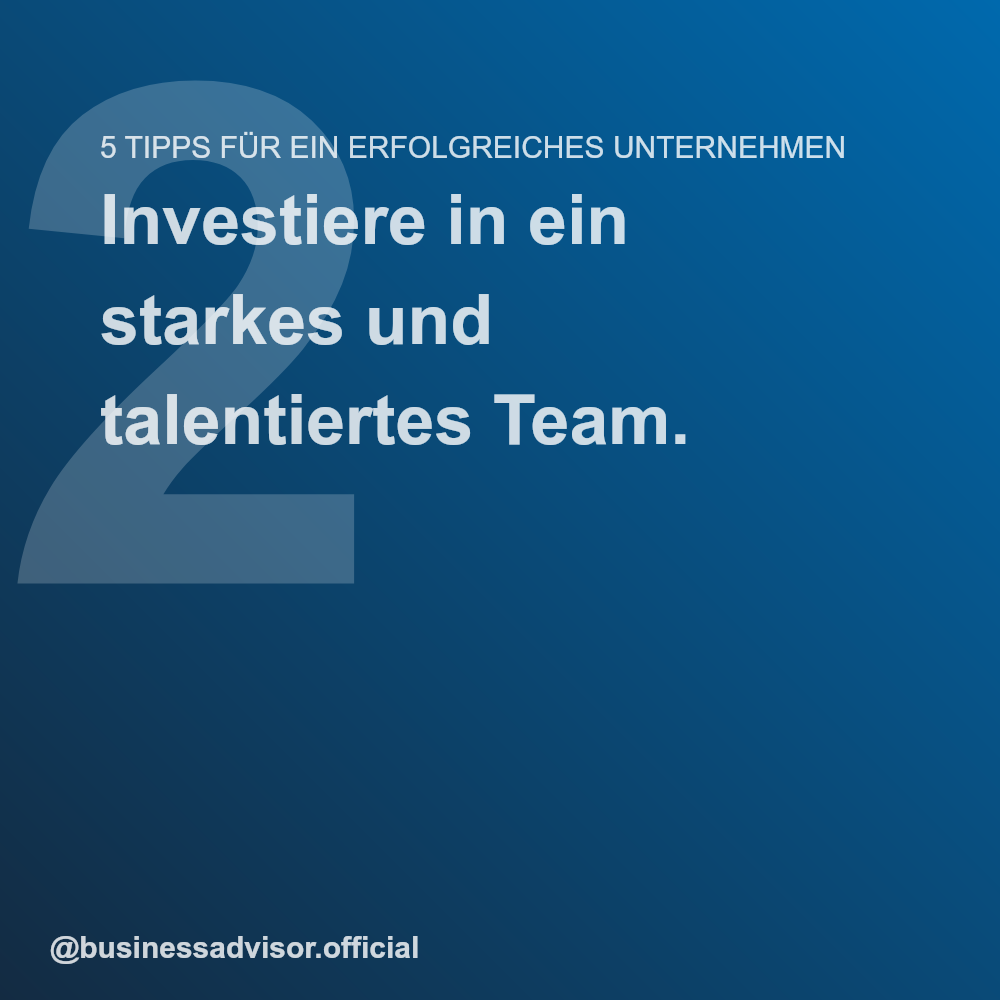
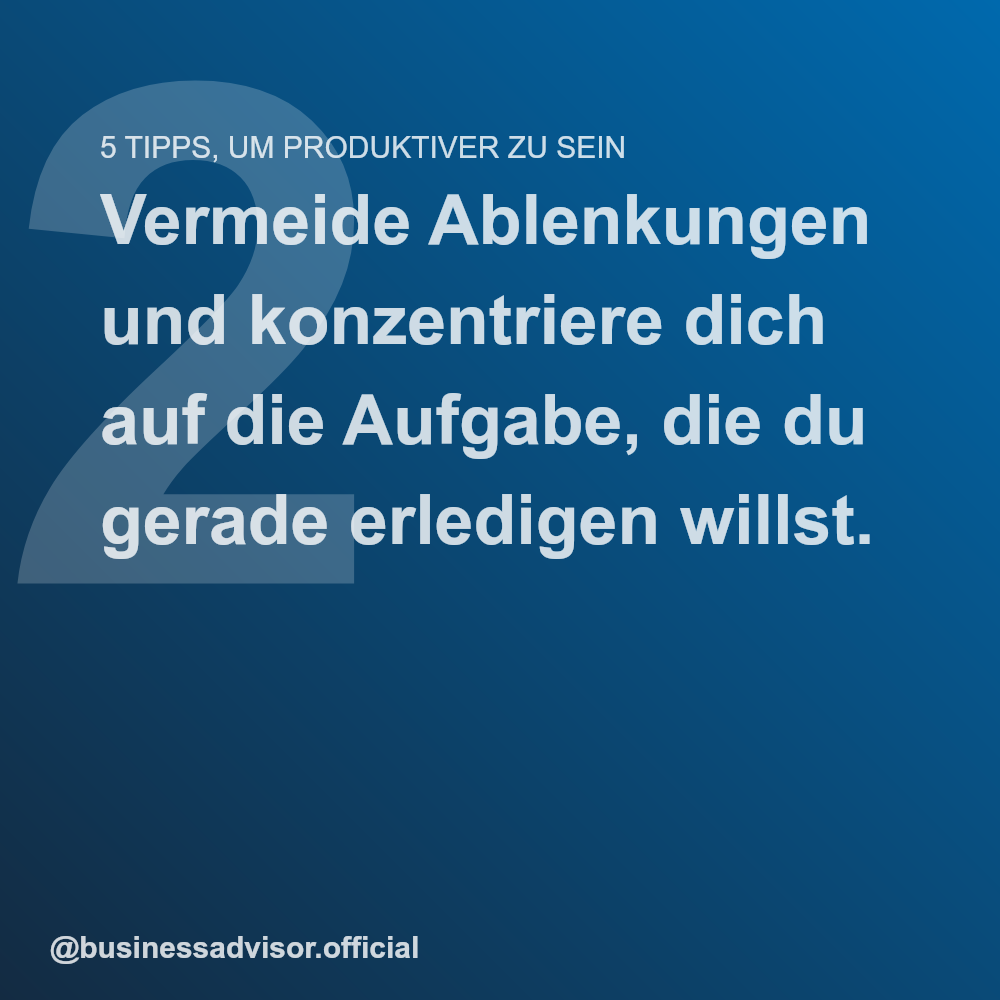
Added new Images

diff --git a/src/tips.ts b/src/tips.ts
@@ -1,0 +1,105 @@
+export const one = [
+  {
+    title: '5 Tipps für ein erfolgreiches Unternehmen',
+    message:
+      'Stelle sicher, dass du klare Ziele und einen soliden Geschäftsplan hast.',
+  },
+  {
+    title: '5 Tipps für ein erfolgreiches Unternehmen',
+    message: 'Investiere in ein starkes und talentiertes Team.',
+  },
+  {
+    title: '5 Tipps für ein erfolgreiches Unternehmen',
+    message:
+      'Konzentriere dich auf die Bedürfnisse deiner Kunden und stelle sicher, dass dein Produkt oder deine Dienstleistung diese Bedürfnisse erfüllt.',
+  },
+  {
+    title: '5 Tipps für ein erfolgreiches Unternehmen',
+    message:
+      'Nutze Daten und Analytics, um wichtige Entscheidungen zu treffen und die Effektivität deiner Bemühungen zu messen.',
+  },
+  {
+    title: '5 Tipps für ein erfolgreiches Unternehmen',
+    message:
+      'Konzentriere dich auf deine Stärken und überlasse die anderen Aufgaben an Experten in den jeweiligen Bereichen.',
+  },
+];
+export const two = [
+  {
+    title: '5 Tipps, die ein Unternehmer ausmachen',
+    message: 'Sei ein Visionär und denke langfristig.',
+  },
+  {
+    title: '5 Tipps, die ein Unternehmer ausmachen',
+    message: 'Sei bereit, Risiken einzugehen und Fehler zu machen.',
+  },
+  {
+    title: '5 Tipps, die ein Unternehmer ausmachen',
+    message: 'Sei hartnäckig und beharrlich in deinem Streben nach Erfolg.',
+  },
+  {
+    title: '5 Tipps, die ein Unternehmer ausmachen',
+    message: 'Arbeite hart und gib niemals auf.',
+  },
+  {
+    title: '5 Tipps, die ein Unternehmer ausmachen',
+    message:
+      'Schaffe ein Unternehmen, das einen positiven Einfluss auf die Gesellschaft hat.',
+  },
+];
+
+export const three = [
+  {
+    title: 'Die 5 besten Routinen',
+    message:
+      'Eine tägliche Morgenroutine, die dir dabei hilft, wach und produktiv in den Tag zu starten.',
+  },
+  {
+    title: 'Die 5 besten Routinen',
+    message:
+      'Eine tägliche Abendroutine, die dir dabei hilft, deinen Geist und Körper auf eine erholsame Nacht vorzubereiten.',
+  },
+  {
+    title: 'Die 5 besten Routinen',
+    message:
+      'Eine regelmäßige Bewegungsroutine, die dafür sorgt, dass du gesund und fit bleibst.',
+  },
+  {
+    title: 'Die 5 besten Routinen',
+    message:
+      'Eine regelmäßige Meditations- oder Entspannungsroutine, die dabei hilft, Stress abzubauen und den Geist zu beruhigen.',
+  },
+  {
+    title: 'Die 5 besten Routinen',
+    message:
+      'Eine regelmäßige Selbstpflege-Routine, die dafür sorgt, dass du dich gut um dich selbst kümmerst und deine Bedürfnisse erfüllst.',
+  },
+];
+
+export const four = [
+  {
+    title: '5 Tipps, um produktiver zu sein',
+    message:
+      'Setze dir klare und realistische Ziele und erstelle einen Plan, um diese zu erreichen.',
+  },
+  {
+    title: '5 Tipps, um produktiver zu sein',
+    message:
+      'Vermeide Ablenkungen und konzentriere dich auf die Aufgabe, die du gerade erledigen willst.',
+  },
+  {
+    title: '5 Tipps, um produktiver zu sein',
+    message:
+      'Nimm regelmäßige Pausen, um deine Energie und Konzentration wieder aufzuladen.',
+  },
+  {
+    title: '5 Tipps, um produktiver zu sein',
+    message:
+      'Organisiere deinen Arbeitsplatz und stelle sicher, dass du alles hast, was du brauchst, um effektiv zu arbeiten.',
+  },
+  {
+    title: '5 Tipps, um produktiver zu sein',
+    message:
+      'Bitte um Unterstützung oder Hilfe, wenn du sie brauchst, und arbeite in einem unterstützenden Umfeld.',
+  },
+];

diff --git a/src/main.ts b/src/main.ts
@@ -2,6 +2,7 @@ import { createCanvas } from '@napi-rs/canvas';
 import { NestFactory } from '@nestjs/core';
 import { AppModule } from './app.module';
 import * as fs from 'fs';
+import { four, three, two } from './tips';
 
 const wrapText = function (ctx, text, x, y, maxWidth, lineHeight) {
   const words: string = text.split(' ');
@@ -97,34 +98,7 @@ const generateMainImage = async function (data: {
 };
 
 async function bootstrap() {
-  const tips = [
-    {
-      title: '5 Tipps für ein erfolgreiches Unternehmen',
-      message:
-        'Stelle sicher, dass du klare Ziele und einen soliden Geschäftsplan hast.',
-    },
-    {
-      title: '5 Tipps für ein erfolgreiches Unternehmen',
-      message: 'Investiere in ein starkes und talentiertes Team.',
-    },
-    {
-      title: '5 Tipps für ein erfolgreiches Unternehmen',
-      message:
-        'Konzentriere dich auf die Bedürfnisse deiner Kunden und stelle sicher, dass dein Produkt oder deine Dienstleistung diese Bedürfnisse erfüllt.',
-    },
-    {
-      title: '5 Tipps für ein erfolgreiches Unternehmen',
-      message:
-        'Nutze Daten und Analytics, um wichtige Entscheidungen zu treffen und die Effektivität deiner Bemühungen zu messen.',
-    },
-    {
-      title: '5 Tipps für ein erfolgreiches Unternehmen',
-      message:
-        'Konzentriere dich auf deine Stärken und überlasse die anderen Aufgaben an Experten in den jeweiligen Bereichen.',
-    },
-  ];
-
-  for (const [index, value] of tips.entries()) {
+  for (const [index, value] of four.entries()) {
     generateMainImage({
       title: value.title,
       message: value.message,
